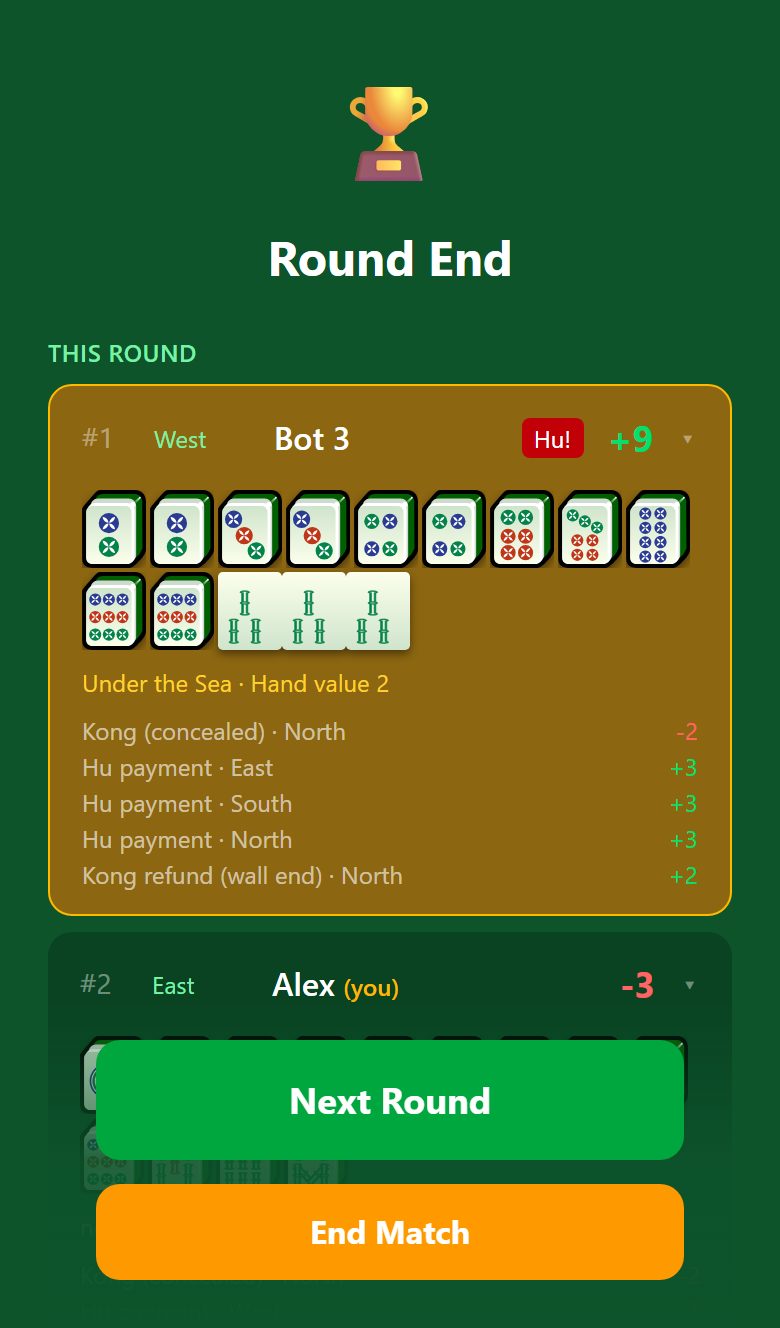
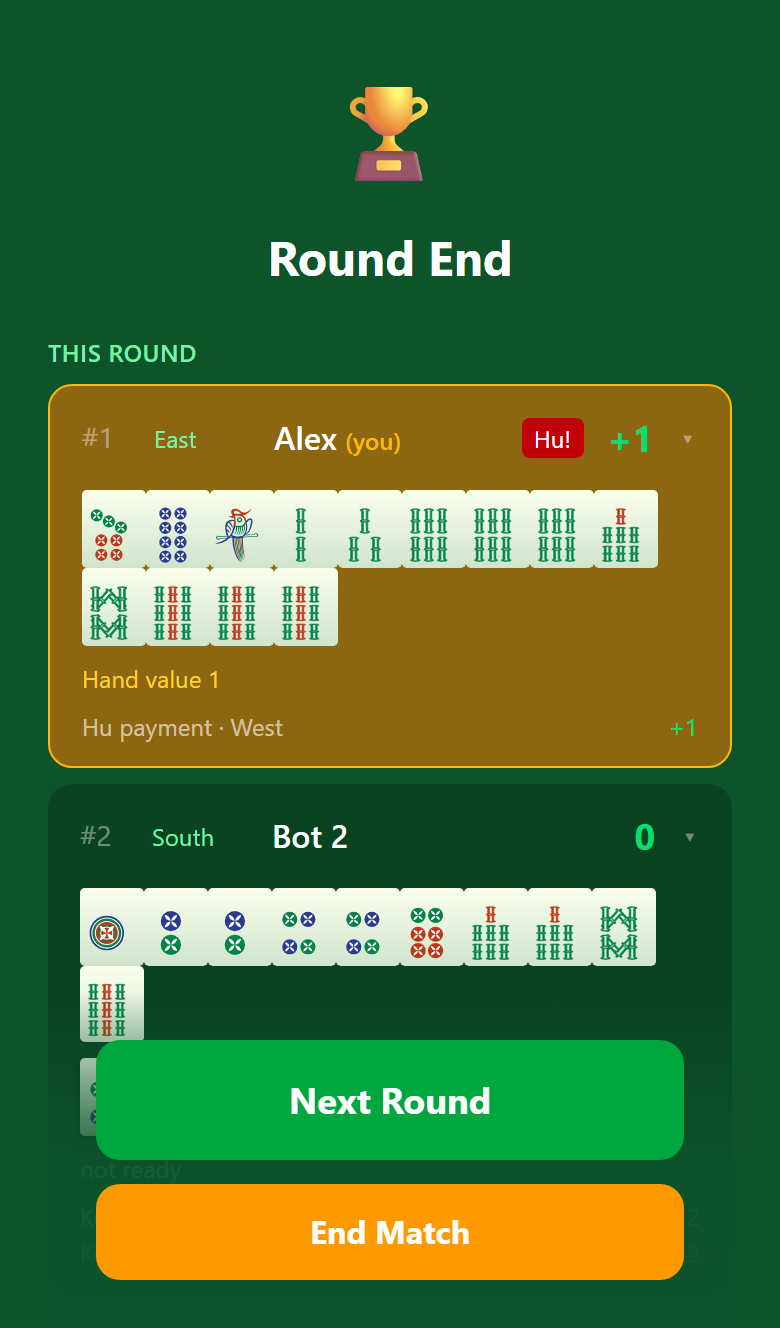
fix(client): finish the flush treatment on round end and spectate, and fix the back
Retaking the screenshots showed two things the density pass left half done.

The round-end reveal drew its hand as 3D tiles with gaps and its melds as a
flush run, so one revealed hand contained two different kinds of object. Both
are flat and flush now; concealed tiles and declared melds are separate groups,
which is what keeps them readable as different things once nothing has a gap.
Spectate had the same split and gets the same treatment.

Flush backs drew one unbroken green slab. Unlike a face, a back paints the whole
cell, so it covered the cell's rounded corners and nothing separated a back from
the back beside it -- a spectator saw a green bar where a thirteen-tile
concealed hand should be, and a concealed kong the same. flat/back.svg now
strokes its own edge.

Also: expanding a row on the round-end screen scrolls it into view, so the
viewport capture framed wherever that left the page -- which is how tall the
row above happened to be, and one capture came out mid-scroll with the trophy
off screen. capture.spec.ts scrolls back to the top first, so the image is the
same screen every time.

diff --git a/packages/client/src/screens/Spectate.tsx b/packages/client/src/screens/Spectate.tsx
@@ -48,21 +48,29 @@ function SeatRow({ view, seat }: { view: SpectatorView; seat: number }) {
         </span>
       </div>
 
-      <div className="flex gap-0.5 flex-wrap items-end">
-        {Array.from({ length: p.handCount }, (_, i) => (
-          <TileBack key={i} size="sm" />
-        ))}
-        {p.melds.map((m, i) => (
-          <MeldDisplay key={`m${i}`} meld={m} />
-        ))}
+      {/* Flush, and grouped: a concealed hand is one run and each meld another,
+          which is what separates them now that no tile carries its own bevel. */}
+      <div className="flex flex-wrap items-start gap-2">
+        <div className="flex flex-wrap">
+          {Array.from({ length: p.handCount }, (_, i) => (
+            <TileBack key={i} size="sm" flat />
+          ))}
+        </div>
+        {p.melds.length > 0 && (
+          <div className="flex flex-wrap gap-1">
+            {p.melds.map((m, i) => (
+              <MeldDisplay key={`m${i}`} meld={m} />
+            ))}
+          </div>
+        )}
       </div>
 
       {(p.discards.length > 0 || p.pendingFirstDiscard) && (
-        <div className="flex flex-wrap gap-0.5 discard-tray">
+        <div className="flex flex-wrap discard-tray">
           {/* Face down until its owner flips it on their first turn (A37) */}
-          {p.pendingFirstDiscard && <TileBack size="sm" />}
+          {p.pendingFirstDiscard && <TileBack size="sm" flat />}
           {p.discards.map(id => (
-            <Tile key={id} id={id} size="sm" lastDiscard={id === lastFromHere} />
+            <Tile key={id} id={id} size="sm" flat lastDiscard={id === lastFromHere} />
           ))}
         </div>
       )}

diff --git a/packages/client/src/components/RoundEndRow.tsx b/packages/client/src/components/RoundEndRow.tsx
@@ -61,13 +61,24 @@ export function RoundEndRow({
 
       {open && (
         <div className="px-4 pb-3 flex flex-col gap-2">
-          <div className="flex flex-wrap gap-0.5">
-            {player.hand.map(id => (
-              <Tile key={id} id={id} size="sm" />
-            ))}
-            {player.melds.map((m, i) => (
-              <MeldDisplay key={`m${i}`} meld={m} />
-            ))}
+          {/* Flat and flush, like the melds beside them: this is a hand laid out
+              on the table at the end of a round, and 3D tiles next to a flush
+              meld read as two different kinds of object in one hand. Concealed
+              tiles and declared melds are separate groups, which is what keeps
+              the two readable as different things now that nothing has a gap. */}
+          <div className="flex flex-wrap items-start gap-2">
+            <div className="flex flex-wrap">
+              {player.hand.map(id => (
+                <Tile key={id} id={id} size="sm" flat />
+              ))}
+            </div>
+            {player.melds.length > 0 && (
+              <div className="flex flex-wrap gap-1">
+                {player.melds.map((m, i) => (
+                  <MeldDisplay key={`m${i}`} meld={m} />
+                ))}
+              </div>
+            )}
           </div>
 
           {player.hu ? (

diff --git a/scripts/screenshots/capture.spec.ts b/scripts/screenshots/capture.spec.ts
@@ -132,6 +132,10 @@ test('regenerate docs screenshots', async ({ page, browser }) => {
   // no winner and every row starts collapsed — expand the top one so the shot
   // always shows the hand and the payment breakdown.
   await page.locator('[aria-expanded="false"]').first().click();
+  // Clicking a row scrolls it into view, so the viewport shot framed wherever
+  // that left the page — which is how tall the row above happened to be. Back to
+  // the top, so the image is the same screen every time.
+  await page.evaluate(() => window.scrollTo(0, 0));
   // Viewport, not full page: the action bar is sticky (R3). See shot().
   await shot(page, 'round-end.png', { fullPage: false });
 });
